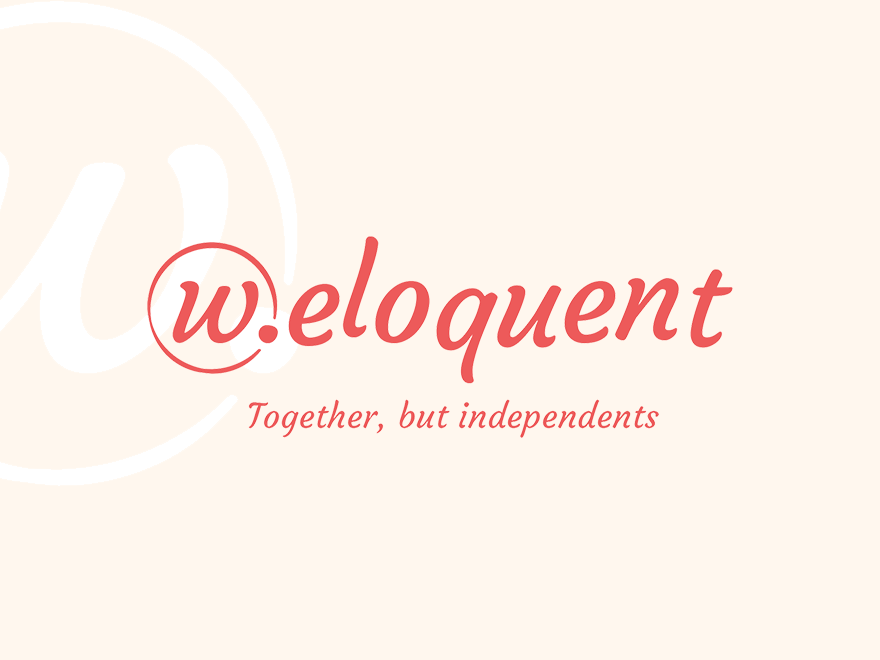
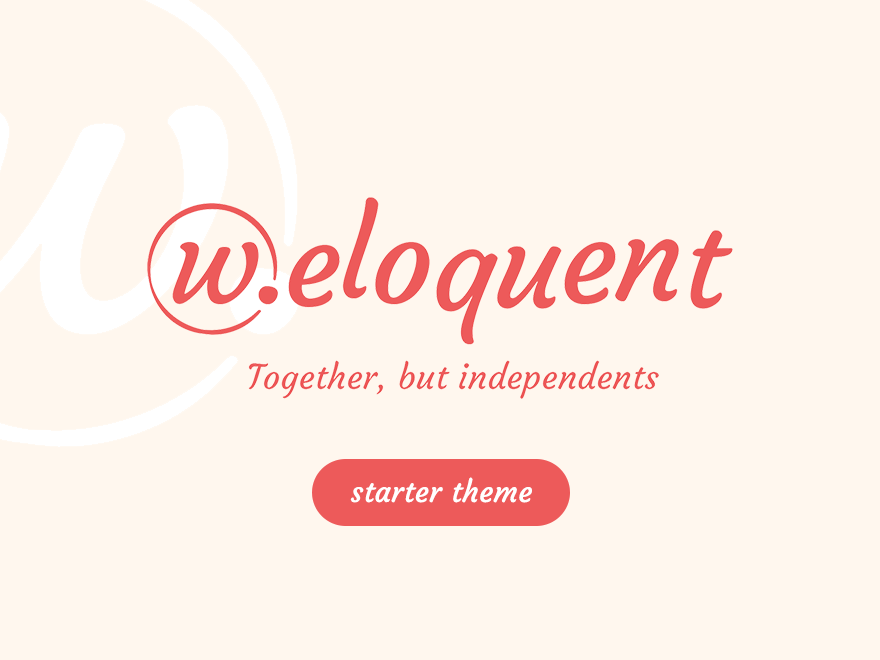
hide admin notifications, update comments, screenshot

Changed region(s): [[0.1534, 0.303, 0.8284, 0.6667], [0.3375, 0.697, 0.6443, 0.8182]]

diff --git a/style.css b/style.css
@@ -1,9 +1,9 @@
 /*
-Theme Name: w.eloquent Base Theme
-Theme URI: https://github.com/bruno-barros/weloquent-theme-base
+Theme Name: w.eloquent Starter Theme
+Theme URI: https://github.com/bruno-barros/weloquent-starter-theme
 Author: Bruno Barros
 Author URI: http://www.brunobarros.com/
-Description: Base theme.
+Description: Starter theme.
 Version: 1.0.0
 License: GNU General Public License v2 or later
 License URI: http://www.gnu.org/licenses/gpl-2.0.html

diff --git a/app/tests/boottest.php b/app/tests/boottest.php
@@ -1,6 +1,6 @@
 <?php
 define( 'WPINC', 'wp-includes' );
-define( 'THEME_TEST_ENV', true );
+define( 'WELOQUENT_TEST_ENV', true );
 defined('DS') ? DS : define('DS', DIRECTORY_SEPARATOR);
 
 /**
@@ -8,7 +8,20 @@ defined('DS') ? DS : define('DS', DIRECTORY_SEPARATOR);
  */
 $root = __DIR__ . '/../../../../..';
 
-
+/**
+ * ------------------------------------------------
+ * Load vendor packages
+ * Set up variables
+ * ------------------------------------------------
+ */
 require $root . '/src/bootstrap/start.php';
 
-require_once $root . '/vendor/phpunit/phpunit/PHPUnit/Framework/Assert/Functions.php';
+/**
+ * ------------------------------------------------
+ * Load PHPUnit helpers
+ * ------------------------------------------------
+ */
+if(file_exists($root . '/vendor/phpunit/phpunit/PHPUnit/Framework/Assert/Functions.php'))
+{
+	require_once $root . '/vendor/phpunit/phpunit/PHPUnit/Framework/Assert/Functions.php';
+}

diff --git a/app/autoload/admin/notifications.php b/app/autoload/admin/notifications.php
@@ -1,0 +1,21 @@
+<?php
+/**
+ * Hide updates notifications
+ */
+add_action('after_setup_theme', function ()
+{
+	/**
+	 * Remove Core updates
+	 */
+	add_filter('pre_site_transient_update_core', '__return_null');
+
+	/**
+	 * remove Plugins updates
+	 */
+	add_filter('pre_site_transient_update_plugins', '__return_null');
+
+	/**
+	 * Remove Themes updates
+	 */
+	add_filter('pre_site_transient_update_themes', '__return_null');
+});

diff --git a/app/views/master.blade.php b/app/views/master.blade.php
@@ -1,9 +1,9 @@
 <!doctype html>
-<html lang="pt-BR">
+<html <?php language_attributes()?>>
 <head>
 	<meta charset="UTF-8">
 
-	<title><?php wp_title() ?></title>
+	<title>{{ wp_title('&gt;', false, 'right' ) }}</title>
 
 	@include('partials.head')
 

diff --git a/single.php b/single.php
@@ -3,14 +3,11 @@
 @section('main')
 
 
-	@var(mp = View::shared('myPost'))
-
 
 	@loop
 
 		<h1 class="page-title">{{ the_title() }}</h1>
 
-		<p><em>{{ $mp->post_date->format('d . M . y') }}</em></p>
 
 		{{ the_content() }}
 

diff --git a/app/views/layouts/home.blade.php b/app/views/layouts/home.blade.php
@@ -1,7 +1,7 @@
 @extends('master')
-<?php
-// Layout define a page structure
-?>
+
+{{-- Home page structure --}}
+
 @section('body_middle')
 
  	@include('partials.header')

diff --git a/functions.php b/functions.php
@@ -1,11 +1,8 @@
 <?php
 /**
- * Base theme
+ * Starter theme
+ *
+ * @link https://github.com/bruno-barros/weloquent-starter-theme
  */
 
 // ... silence.
-
-
-
-
-
